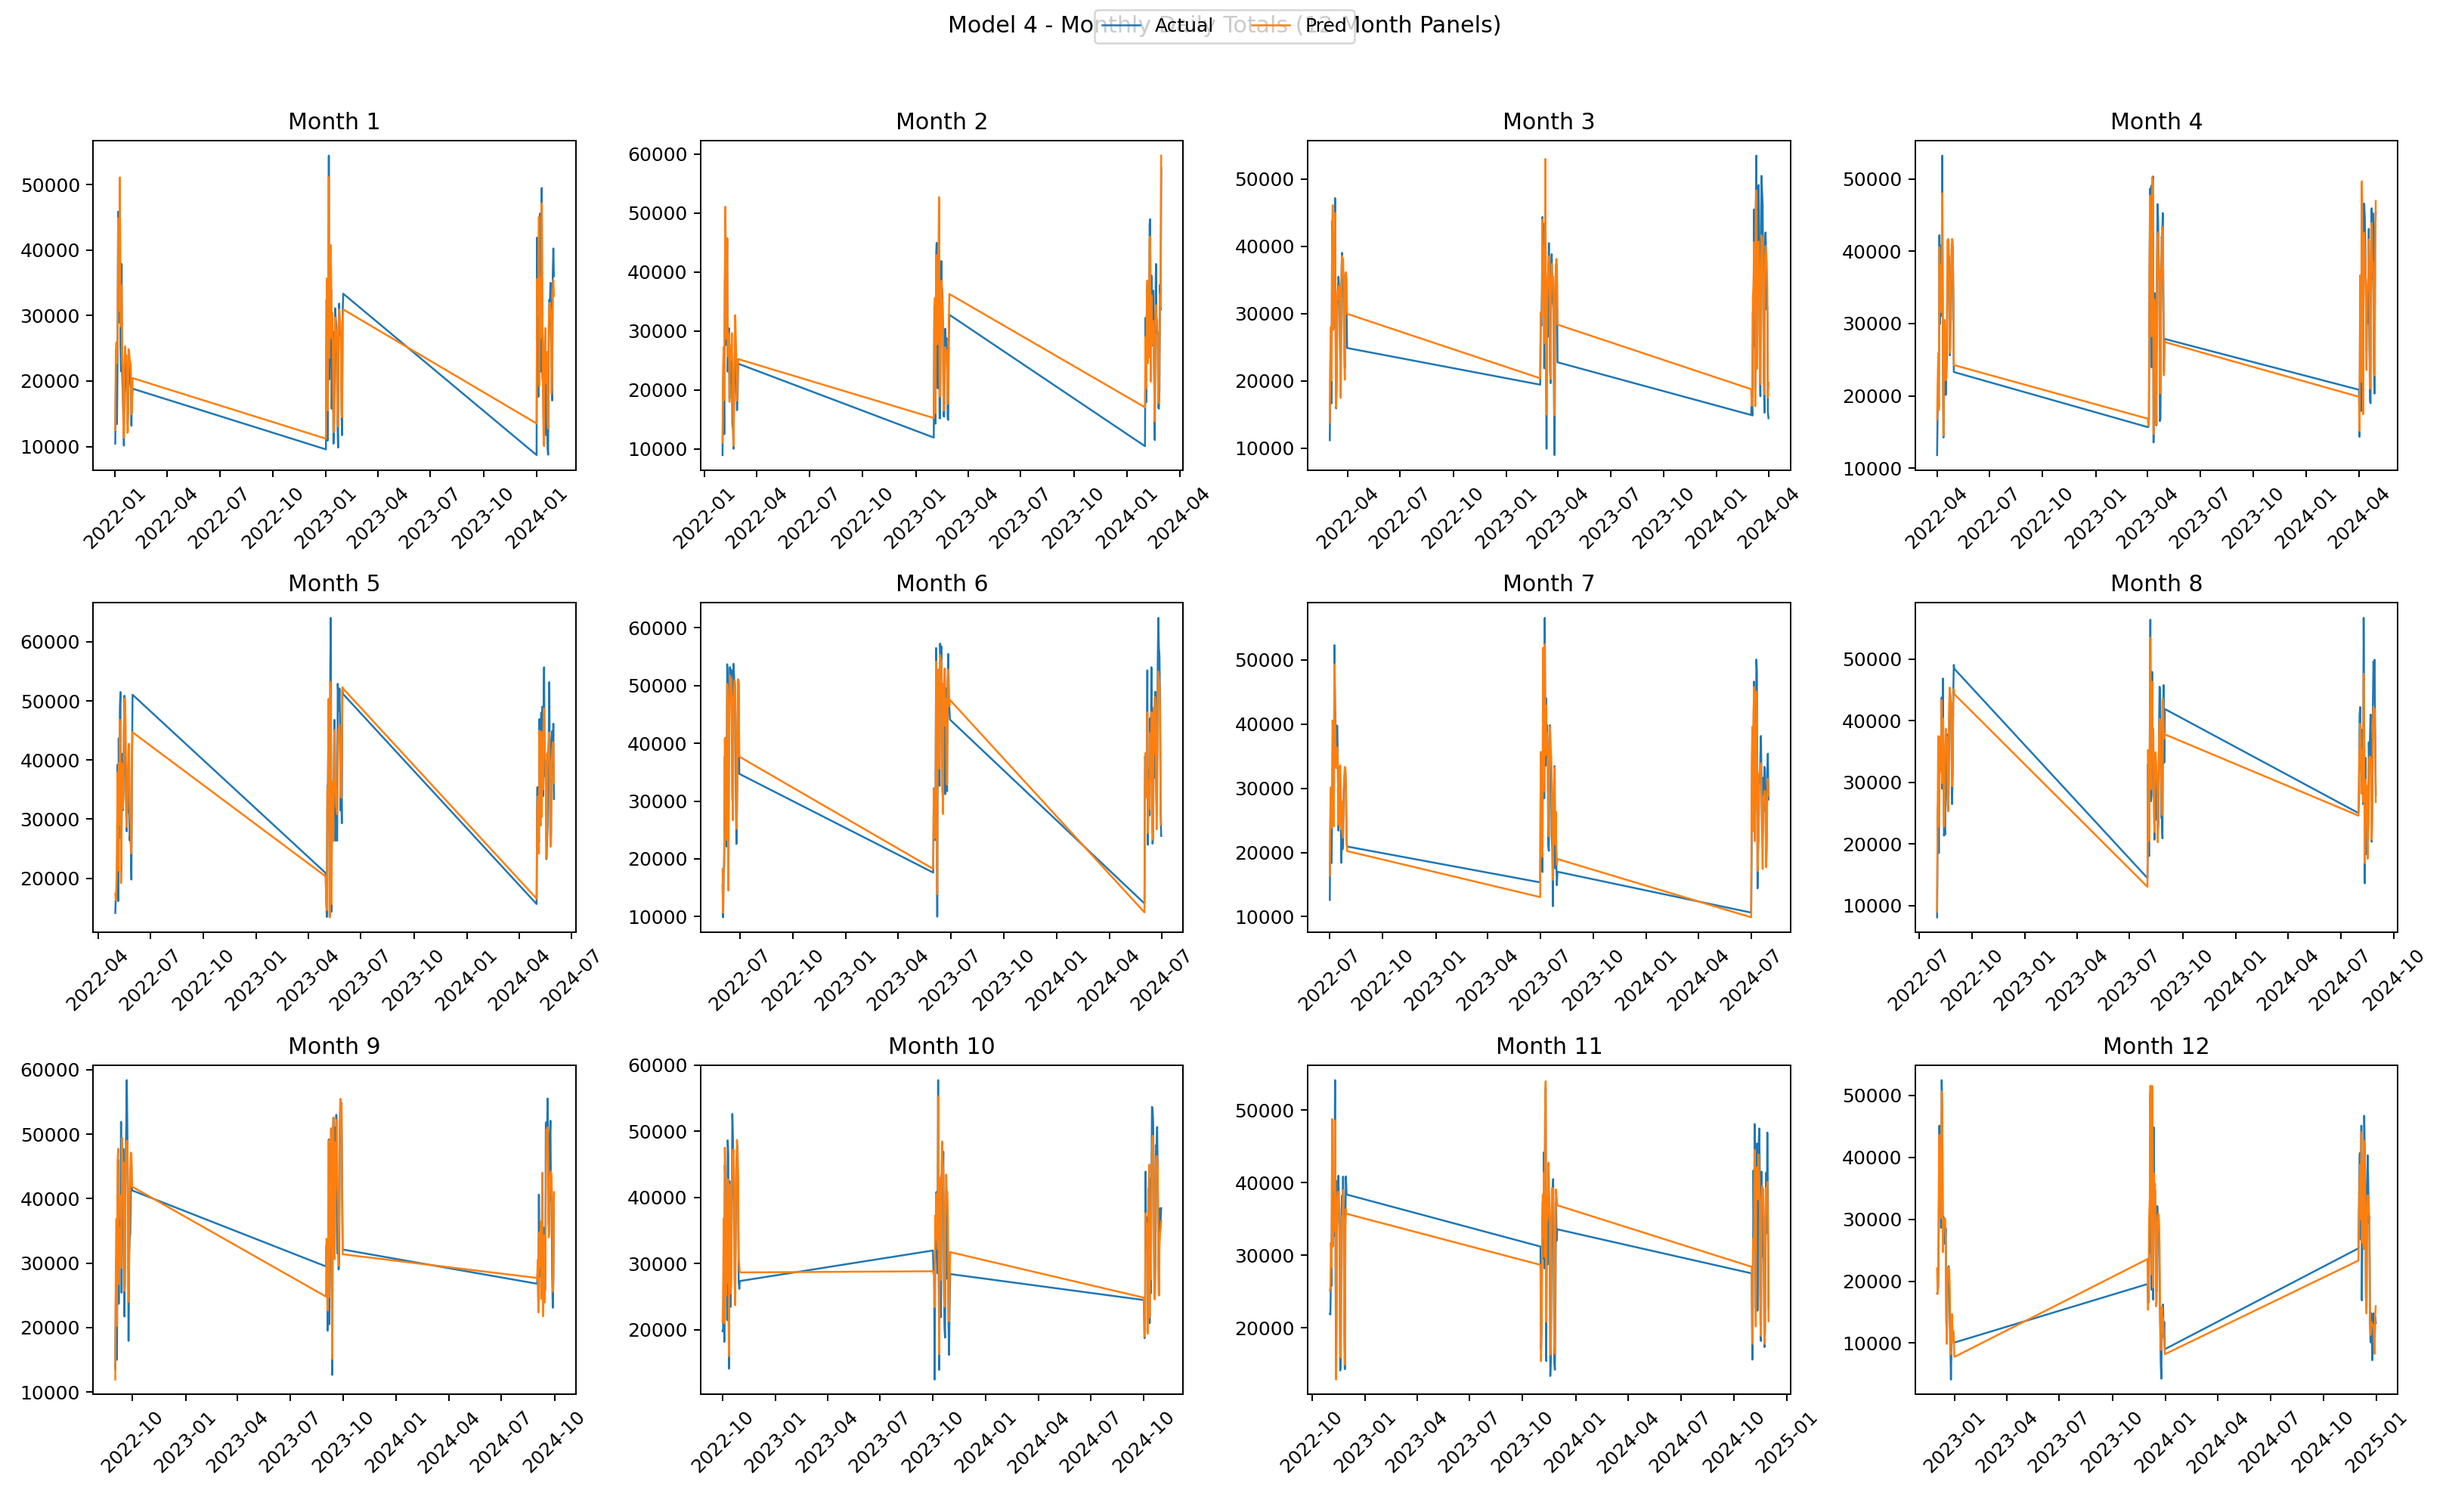
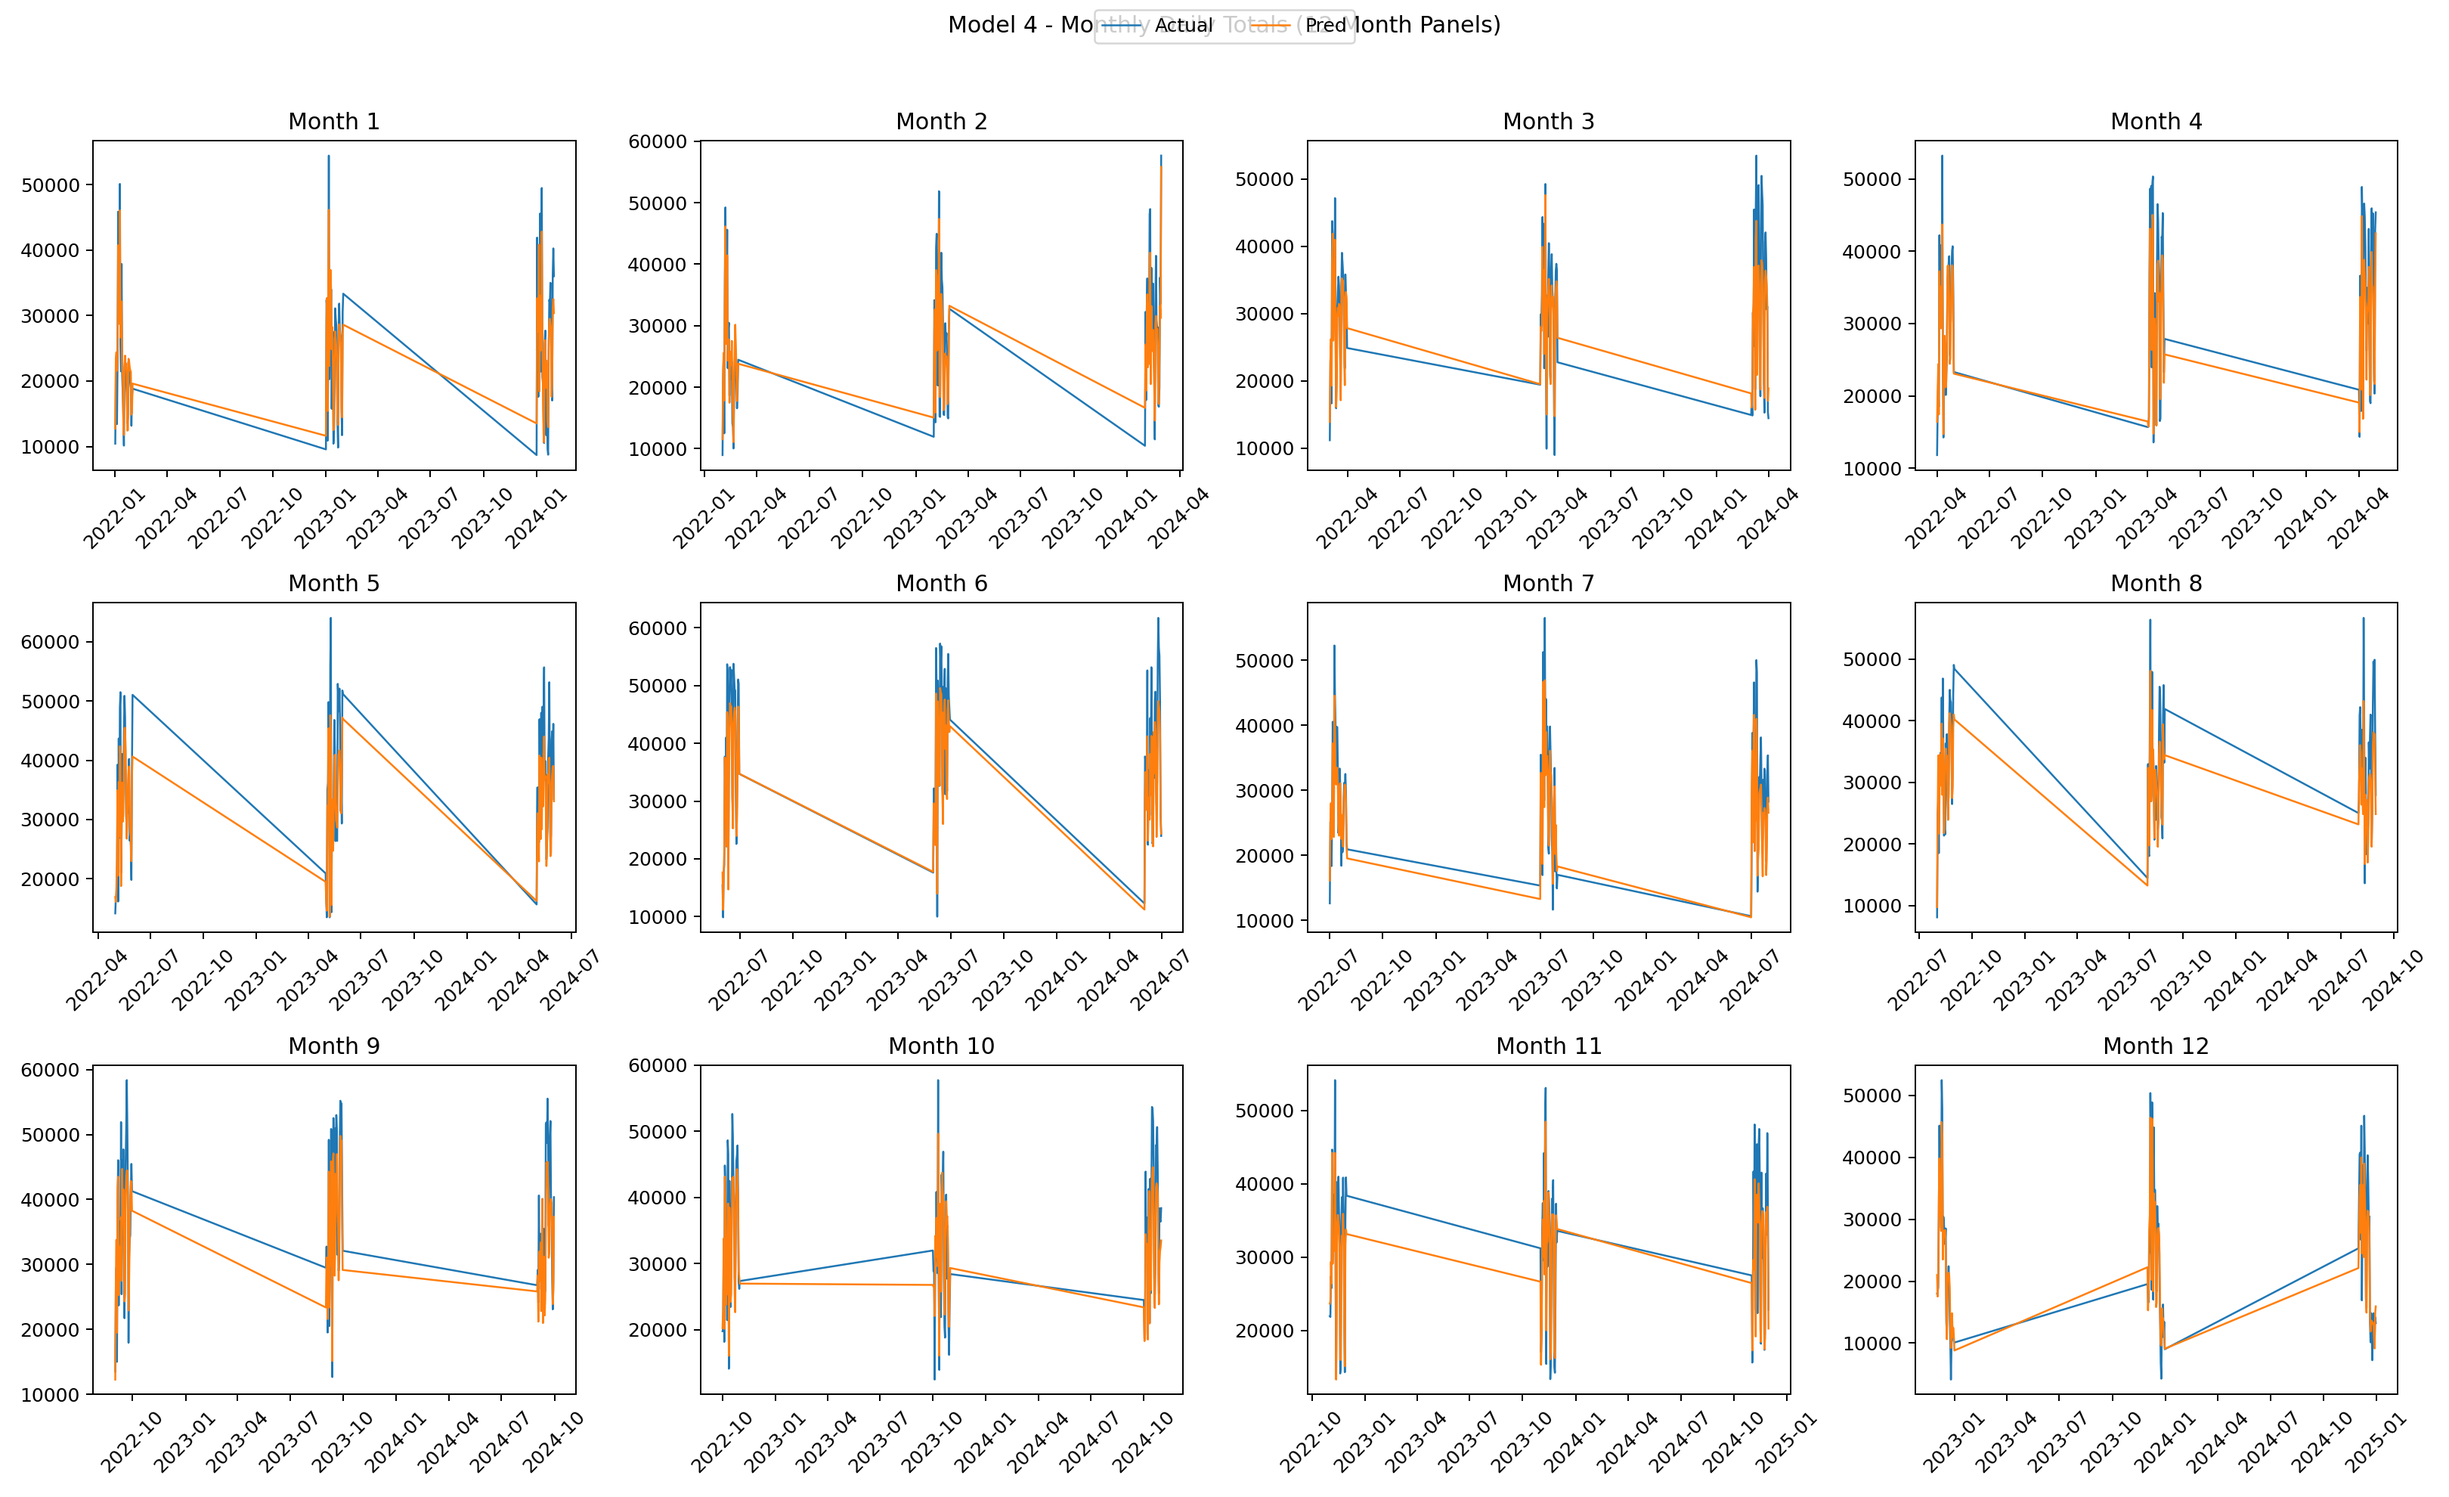
Persist R²-tagged cluster export and executed model code artifact from Model4 runs
Agent-Logs-Url: https://github.com/PranavSPandya7/BikeCount/sessions/c452b43b-3d14-4a00-b5a6-56bb0edbadc2

diff --git a/model4_outputs/model_code_r2=0.677758.py b/model4_outputs/model_code_r2=0.677758.py
@@ -23,13 +23,7 @@ def parse_args():
         default="/home/runner/work/BikeCount/BikeCount/model4_outputs",
         help="Directory for outputs",
     )
-    p.add_argument("--n-clusters", type=int, default=9, help="Number of teacher/feature clusters")
-    p.add_argument(
-        "--mean-blend-scale",
-        type=float,
-        default=30.0,
-        help="Blend scale for shrinking low-mean station predictions toward station mean",
-    )
+    p.add_argument("--n-clusters", type=int, default=4, help="Number of teacher/feature clusters")
     p.add_argument("--max-stations", type=int, default=0, help="Limit number of test stations (0 = all)")
     p.add_argument(
         "--cluster-mode",
@@ -225,9 +219,7 @@ def main():
         )
         est_station_mean = max(est_station_mean, 1e-6)
 
-        pred_count_model = pred_profile * est_station_mean
-        blend_alpha = float(np.clip(est_station_mean / (est_station_mean + args.mean_blend_scale), 0.2, 1.0))
-        pred_count = blend_alpha * pred_count_model + (1.0 - blend_alpha) * est_station_mean
+        pred_count = pred_profile * est_station_mean
         fold_out = test_df[["FeatureID", "date_parsed", "Count"]].copy()
         fold_out["Pred_Count"] = pred_count
         fold_out["Fold_Test_Station"] = test_station

diff --git a/model4_outputs/model_code_r2=0.731400.py b/model4_outputs/model_code_r2=0.731400.py
@@ -23,13 +23,7 @@ def parse_args():
         default="/home/runner/work/BikeCount/BikeCount/model4_outputs",
         help="Directory for outputs",
     )
-    p.add_argument("--n-clusters", type=int, default=9, help="Number of teacher/feature clusters")
-    p.add_argument(
-        "--mean-blend-scale",
-        type=float,
-        default=30.0,
-        help="Blend scale for shrinking low-mean station predictions toward station mean",
-    )
+    p.add_argument("--n-clusters", type=int, default=4, help="Number of teacher/feature clusters")
     p.add_argument("--max-stations", type=int, default=0, help="Limit number of test stations (0 = all)")
     p.add_argument(
         "--cluster-mode",
@@ -225,9 +219,7 @@ def main():
         )
         est_station_mean = max(est_station_mean, 1e-6)
 
-        pred_count_model = pred_profile * est_station_mean
-        blend_alpha = float(np.clip(est_station_mean / (est_station_mean + args.mean_blend_scale), 0.2, 1.0))
-        pred_count = blend_alpha * pred_count_model + (1.0 - blend_alpha) * est_station_mean
+        pred_count = pred_profile * est_station_mean
         fold_out = test_df[["FeatureID", "date_parsed", "Count"]].copy()
         fold_out["Pred_Count"] = pred_count
         fold_out["Fold_Test_Station"] = test_station

diff --git a/model4_outputs/model_code_r2=0.731968.py b/model4_outputs/model_code_r2=0.731968.py
@@ -23,13 +23,7 @@ def parse_args():
         default="/home/runner/work/BikeCount/BikeCount/model4_outputs",
         help="Directory for outputs",
     )
-    p.add_argument("--n-clusters", type=int, default=9, help="Number of teacher/feature clusters")
-    p.add_argument(
-        "--mean-blend-scale",
-        type=float,
-        default=30.0,
-        help="Blend scale for shrinking low-mean station predictions toward station mean",
-    )
+    p.add_argument("--n-clusters", type=int, default=4, help="Number of teacher/feature clusters")
     p.add_argument("--max-stations", type=int, default=0, help="Limit number of test stations (0 = all)")
     p.add_argument(
         "--cluster-mode",
@@ -225,9 +219,7 @@ def main():
         )
         est_station_mean = max(est_station_mean, 1e-6)
 
-        pred_count_model = pred_profile * est_station_mean
-        blend_alpha = float(np.clip(est_station_mean / (est_station_mean + args.mean_blend_scale), 0.2, 1.0))
-        pred_count = blend_alpha * pred_count_model + (1.0 - blend_alpha) * est_station_mean
+        pred_count = pred_profile * est_station_mean
         fold_out = test_df[["FeatureID", "date_parsed", "Count"]].copy()
         fold_out["Pred_Count"] = pred_count
         fold_out["Fold_Test_Station"] = test_station

diff --git a/model4_outputs/model_code_r2=0.748914.py b/model4_outputs/model_code_r2=0.748914.py
@@ -23,13 +23,7 @@ def parse_args():
         default="/home/runner/work/BikeCount/BikeCount/model4_outputs",
         help="Directory for outputs",
     )
-    p.add_argument("--n-clusters", type=int, default=9, help="Number of teacher/feature clusters")
-    p.add_argument(
-        "--mean-blend-scale",
-        type=float,
-        default=30.0,
-        help="Blend scale for shrinking low-mean station predictions toward station mean",
-    )
+    p.add_argument("--n-clusters", type=int, default=4, help="Number of teacher/feature clusters")
     p.add_argument("--max-stations", type=int, default=0, help="Limit number of test stations (0 = all)")
     p.add_argument(
         "--cluster-mode",
@@ -225,9 +219,7 @@ def main():
         )
         est_station_mean = max(est_station_mean, 1e-6)
 
-        pred_count_model = pred_profile * est_station_mean
-        blend_alpha = float(np.clip(est_station_mean / (est_station_mean + args.mean_blend_scale), 0.2, 1.0))
-        pred_count = blend_alpha * pred_count_model + (1.0 - blend_alpha) * est_station_mean
+        pred_count = pred_profile * est_station_mean
         fold_out = test_df[["FeatureID", "date_parsed", "Count"]].copy()
         fold_out["Pred_Count"] = pred_count
         fold_out["Fold_Test_Station"] = test_station

diff --git a/model4_outputs/model_code_r2=0.751823.py b/model4_outputs/model_code_r2=0.751823.py
@@ -23,13 +23,7 @@ def parse_args():
         default="/home/runner/work/BikeCount/BikeCount/model4_outputs",
         help="Directory for outputs",
     )
-    p.add_argument("--n-clusters", type=int, default=9, help="Number of teacher/feature clusters")
-    p.add_argument(
-        "--mean-blend-scale",
-        type=float,
-        default=30.0,
-        help="Blend scale for shrinking low-mean station predictions toward station mean",
-    )
+    p.add_argument("--n-clusters", type=int, default=4, help="Number of teacher/feature clusters")
     p.add_argument("--max-stations", type=int, default=0, help="Limit number of test stations (0 = all)")
     p.add_argument(
         "--cluster-mode",
@@ -225,9 +219,7 @@ def main():
         )
         est_station_mean = max(est_station_mean, 1e-6)
 
-        pred_count_model = pred_profile * est_station_mean
-        blend_alpha = float(np.clip(est_station_mean / (est_station_mean + args.mean_blend_scale), 0.2, 1.0))
-        pred_count = blend_alpha * pred_count_model + (1.0 - blend_alpha) * est_station_mean
+        pred_count = pred_profile * est_station_mean
         fold_out = test_df[["FeatureID", "date_parsed", "Count"]].copy()
         fold_out["Pred_Count"] = pred_count
         fold_out["Fold_Test_Station"] = test_station

diff --git a/model4_outputs/model_code_r2=0.767811.py b/model4_outputs/model_code_r2=0.767811.py
@@ -23,13 +23,7 @@ def parse_args():
         default="/home/runner/work/BikeCount/BikeCount/model4_outputs",
         help="Directory for outputs",
     )
-    p.add_argument("--n-clusters", type=int, default=9, help="Number of teacher/feature clusters")
-    p.add_argument(
-        "--mean-blend-scale",
-        type=float,
-        default=30.0,
-        help="Blend scale for shrinking low-mean station predictions toward station mean",
-    )
+    p.add_argument("--n-clusters", type=int, default=4, help="Number of teacher/feature clusters")
     p.add_argument("--max-stations", type=int, default=0, help="Limit number of test stations (0 = all)")
     p.add_argument(
         "--cluster-mode",
@@ -225,9 +219,7 @@ def main():
         )
         est_station_mean = max(est_station_mean, 1e-6)
 
-        pred_count_model = pred_profile * est_station_mean
-        blend_alpha = float(np.clip(est_station_mean / (est_station_mean + args.mean_blend_scale), 0.2, 1.0))
-        pred_count = blend_alpha * pred_count_model + (1.0 - blend_alpha) * est_station_mean
+        pred_count = pred_profile * est_station_mean
         fold_out = test_df[["FeatureID", "date_parsed", "Count"]].copy()
         fold_out["Pred_Count"] = pred_count
         fold_out["Fold_Test_Station"] = test_station

diff --git a/model4_outputs/model_code_r2=0.775605.py b/model4_outputs/model_code_r2=0.775605.py
@@ -23,13 +23,7 @@ def parse_args():
         default="/home/runner/work/BikeCount/BikeCount/model4_outputs",
         help="Directory for outputs",
     )
-    p.add_argument("--n-clusters", type=int, default=9, help="Number of teacher/feature clusters")
-    p.add_argument(
-        "--mean-blend-scale",
-        type=float,
-        default=30.0,
-        help="Blend scale for shrinking low-mean station predictions toward station mean",
-    )
+    p.add_argument("--n-clusters", type=int, default=4, help="Number of teacher/feature clusters")
     p.add_argument("--max-stations", type=int, default=0, help="Limit number of test stations (0 = all)")
     p.add_argument(
         "--cluster-mode",
@@ -225,9 +219,7 @@ def main():
         )
         est_station_mean = max(est_station_mean, 1e-6)
 
-        pred_count_model = pred_profile * est_station_mean
-        blend_alpha = float(np.clip(est_station_mean / (est_station_mean + args.mean_blend_scale), 0.2, 1.0))
-        pred_count = blend_alpha * pred_count_model + (1.0 - blend_alpha) * est_station_mean
+        pred_count = pred_profile * est_station_mean
         fold_out = test_df[["FeatureID", "date_parsed", "Count"]].copy()
         fold_out["Pred_Count"] = pred_count
         fold_out["Fold_Test_Station"] = test_station
